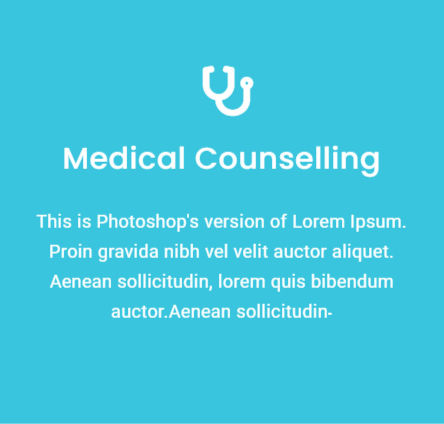
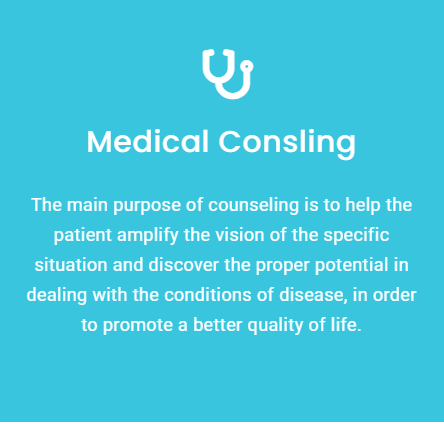
git add --all

diff --git a/templates/home.html b/templates/home.html
@@ -26,6 +26,7 @@
         <a href="#hero" class="nav-item active">Home</a>
         <a href="#why" class="nav-item">Why HelthOne</a>
         <a href="#appointment" class="nav-item">Appointment</a>
+        
         <button onclick="openLogin()">Login/Register</button>
       </div>
     </div>
@@ -37,12 +38,10 @@
           Medical <a class="item-1">Health</a>
         </section>
       </div>
-      <p>
-        Purus gravida quis blandit turpis cursus in hac habitasse platea. Et
-        sollicitudin ac orci phasellus egestas. Vulputate eu scelerisque felis
-        imperdiet proin fermentum leo vel. Vitae elementum.
+      <p class="pa">
+        Healthcare is amongst the one of the basic necessity’s required by an individual to stay fit in this world. It’s vital to ensure a healthy body as it leads to a healthy environment which will eventually lead to a healthy nation. 
       </p>
-      <a href="#"><button class="btn">Learn More</button></a>
+      <a href="#"><button class="butn">Learn More</button></a>
     </section>
 
     <div id="snackbar">{{ msg1 }}</div>
@@ -64,7 +63,7 @@
     >
       <tr>
         <td class="fliptd">
-          <div class="flip-card">
+          <div class="flip-card ca">
             <div class="flip-card-inner">
               <div class="flip-card-front">
                 <img
@@ -84,7 +83,7 @@
           </div>
         </td>
         <td class="fliptd">
-          <div class="flip-card">
+          <div class="flip-card na">
             <div class="flip-card-inner">
               <div class="flip-card-front">
                 <img
@@ -104,7 +103,7 @@
         </td>
 
         <td class="fliptd">
-          <div class="flip-card">
+          <div class="flip-card ba">
             <div class="flip-card-inner">
               <div class="flip-card-front">
                 <img
@@ -133,24 +132,19 @@
         We Value Your<br /><a class="family-style">Family</a> More<br />Than
         Anyone<br />Else.
       </div>
-      <p>
-        Curabitur mollis bibendum luctus. Duis suscipit vitae dui sed suscipit.
-        Vestibulum auctor nunc vitae diam eleifend, in maximus metus
-        sollicitudin. Quisque vitae sodales lectus. Nam porttitor justo sed mi
-        finibus, vel tristique risus faucibus.
+      <p class="ba">
+        We here at HelthOne value your and your families Health, as everyone should. If you choose to be with us, you will get free consultations with the top doctors in the world, along with the best lab tests in the country.
       </p>
-      <p style="margin-bottom: 0 !important">
-        Curabitur mollis bibendum luctus. Duis suscipit vitae dui sed suscipit.
-        Vestibulum auctor nunc vitae diam eleifend, in maximus metus
-        sollicitudin. Quisque vitae sodales lectus..
+      <p style="margin-bottom: 0 !important" class="ba">
+        Being healthy is about having good physical health and being mentally and socially fit. A healthy person can be more focused, more determined and can lead a happy life. If we look into human history, the biggest asset to human beings is good health and a healthy mind.
       </p>
     </section>
 
     <div class="form-bg" id="appointment">
       <div class="form-title">
-         <div class="make-an-style"> Make An </div> <section>Appointment</section>
+         <div class="make-an-style"> Make An </div> <section class="app">Appointment</section>
       </div>
-      <p>This is Photoshop's version of Lorem Ipsum. Proin gravida nibh vel velit auctor aliquet. Aenean sollicitudin, lorem quis bibendum auctor.</p>
+      <p class="ba">Fill this for here to connect with the best doctors in the country.</p>
       <div class="make-an-form">
         <form method="POST" action="{{ url_for('home') }}">
           <table style="border-spacing: 6px;">
@@ -168,7 +162,7 @@
         </div>
     </div>
     <!-- ----CLINICAL DEPARTMENTS---- -->
-    <section class="clinical-depart">
+    <section class="clinical-depart na">
       <div class="line-1">We provide best Lab Test across India</div>
       <div class="main-line">clinical <a>department</a></div>
 

diff --git a/templates/home_doctor.html b/templates/home_doctor.html
@@ -20,12 +20,13 @@
   <body>
     <div class="navbar" id="mynavbar">
       <div class="navgrp left" style="width: 15vw">
-        <a href="#home">HelthOne</a>
+        <a href="#hero">HelthOne</a>
       </div>
       <div class="navgrp right" style="width: 62vw">
         <a href="#hero" class="nav-item active">Home</a>
         <a href="#why" class="nav-item">Why HelthOne</a>
         <a href="#appointments" class="nav-item">Appointment</a>
+        <a href="#clinic" class="nav-item">Clinical Department</a>
         <a href="{{ url_for('logout') }}">
           <i class="fa fa-sign-in" aria-hidden="true" style="font-size: 18px; padding-top: 2px; padding-left: -4px"></i>
         </a>
@@ -39,12 +40,10 @@
           Medical <a class="item-1">Health</a>
         </section>
       </div>
-      <p>
-        Purus gravida quis blandit turpis cursus in hac habitasse platea. Et
-        sollicitudin ac orci phasellus egestas. Vulputate eu scelerisque felis
-        imperdiet proin fermentum leo vel. Vitae elementum.
+      <p class="pa">
+        Healthcare is amongst the one of the basic necessity’s required by an individual to stay fit in this world. It’s vital to ensure a healthy body as it leads to a healthy environment which will eventually lead to a healthy nation. 
       </p>
-      <a href="#"><button class="btn">Learn More</button></a>
+      <a href="#"><button class="butn">Learn More</button></a>
     </section>
 
     <!-- -----FLIPING CARDS---- -->
@@ -58,7 +57,7 @@
     >
       <tr>
         <td class="fliptd">
-          <div class="flip-card">
+          <div class="flip-card ca">
             <div class="flip-card-inner">
               <div class="flip-card-front">
                 <img
@@ -78,7 +77,7 @@
           </div>
         </td>
         <td class="fliptd">
-          <div class="flip-card">
+          <div class="flip-card na">
             <div class="flip-card-inner">
               <div class="flip-card-front">
                 <img
@@ -98,7 +97,7 @@
         </td>
 
         <td class="fliptd">
-          <div class="flip-card">
+          <div class="flip-card ba">
             <div class="flip-card-inner">
               <div class="flip-card-front">
                 <img
@@ -127,16 +126,11 @@
         We Value Your<br /><a class="family-style">Family</a> More<br />Than
         Anyone<br />Else.
       </div>
-      <p>
-        Curabitur mollis bibendum luctus. Duis suscipit vitae dui sed suscipit.
-        Vestibulum auctor nunc vitae diam eleifend, in maximus metus
-        sollicitudin. Quisque vitae sodales lectus. Nam porttitor justo sed mi
-        finibus, vel tristique risus faucibus.
+      <p class="ba">
+        We here at HelthOne value your and your families Health, as everyone should. If you choose to be with us, you will get free consultations with the top doctors in the world, along with the best lab tests in the country.
       </p>
-      <p style="margin-bottom: 0 !important">
-        Curabitur mollis bibendum luctus. Duis suscipit vitae dui sed suscipit.
-        Vestibulum auctor nunc vitae diam eleifend, in maximus metus
-        sollicitudin. Quisque vitae sodales lectus..
+      <p style="margin-bottom: 0 !important" class="ba">
+        Being healthy is about having good physical health and being mentally and socially fit. A healthy person can be more focused, more determined and can lead a happy life. If we look into human history, the biggest asset to human beings is good health and a healthy mind.
       </p>
     </section>
 
@@ -159,12 +153,13 @@
           {%endfor%}
         </table>
       </div>
+      <div id="clinic"></div>
     </section>
   
 
 
     <!-- ----CLINICAL DEPARTMENTS---- -->
-    <section class="clinical-depart">
+    <section class="clinical-depart na" >
       <div class="line-1">We provide best Lab Test across India</div>
       <div class="main-line">clinical <a>department</a></div>
 

diff --git a/templates/home_patient.html b/templates/home_patient.html
@@ -40,12 +40,10 @@
           Medical <a class="item-1">Health</a>
         </section>
       </div>
-      <p>
-        Purus gravida quis blandit turpis cursus in hac habitasse platea. Et
-        sollicitudin ac orci phasellus egestas. Vulputate eu scelerisque felis
-        imperdiet proin fermentum leo vel. Vitae elementum.
+      <p class="pa">
+        Healthcare is amongst the one of the basic necessity’s required by an individual to stay fit in this world. It’s vital to ensure a healthy body as it leads to a healthy environment which will eventually lead to a healthy nation. 
       </p>
-      <a href="#"><button class="btn">Learn More</button></a>
+      <a href="#"><button class="butn">Learn More</button></a>
     </section>
 
     <!-- -----FLIPING CARDS---- -->
@@ -59,7 +57,7 @@
     >
       <tr>
         <td class="fliptd">
-          <div class="flip-card">
+          <div class="flip-card ca">
             <div class="flip-card-inner">
               <div class="flip-card-front">
                 <img
@@ -79,7 +77,7 @@
           </div>
         </td>
         <td class="fliptd">
-          <div class="flip-card">
+          <div class="flip-card na">
             <div class="flip-card-inner">
               <div class="flip-card-front">
                 <img
@@ -99,7 +97,7 @@
         </td>
 
         <td class="fliptd">
-          <div class="flip-card">
+          <div class="flip-card ba">
             <div class="flip-card-inner">
               <div class="flip-card-front">
                 <img
@@ -128,16 +126,11 @@
         We Value Your<br /><a class="family-style">Family</a> More<br />Than
         Anyone<br />Else.
       </div>
-      <p>
-        Curabitur mollis bibendum luctus. Duis suscipit vitae dui sed suscipit.
-        Vestibulum auctor nunc vitae diam eleifend, in maximus metus
-        sollicitudin. Quisque vitae sodales lectus. Nam porttitor justo sed mi
-        finibus, vel tristique risus faucibus.
+      <p class="ba">
+        We here at HelthOne value your and your families Health, as everyone should. If you choose to be with us, you will get free consultations with the top doctors in the world, along with the best lab tests in the country.
       </p>
-      <p style="margin-bottom: 0 !important">
-        Curabitur mollis bibendum luctus. Duis suscipit vitae dui sed suscipit.
-        Vestibulum auctor nunc vitae diam eleifend, in maximus metus
-        sollicitudin. Quisque vitae sodales lectus..
+      <p style="margin-bottom: 0 !important" class="ba">
+        Being healthy is about having good physical health and being mentally and socially fit. A healthy person can be more focused, more determined and can lead a happy life. If we look into human history, the biggest asset to human beings is good health and a healthy mind.
       </p>
     </section>
 
@@ -145,7 +138,7 @@
       <div class="form-title">
          <div class="make-an-style"> Make An </div> <section>Appointment</section>
       </div>
-      <p>This is Photoshop's version of Lorem Ipsum. Proin gravida nibh vel velit auctor aliquet. Aenean sollicitudin, lorem quis bibendum auctor.</p>
+      <p>Fill this for here to connect with the best doctors in the country.</p>
       <div class="make-an-form">
           <table style="border-spacing: 6px;">
           <form method="POST" enctype="multipart/form-data" action="{{ url_for('home') }}">
@@ -166,7 +159,7 @@
     </div>
 
     <!-- ----CLINICAL DEPARTMENTS---- -->
-    <section class="clinical-depart">
+    <section class="clinical-depart na">
       <div class="line-1">We provide best Lab Test across India</div>
       <div class="main-line">clinical <a>department</a></div>
       <img

diff --git a/static/js/home.js b/static/js/home.js
@@ -44,7 +44,7 @@ ScrollReveal().reveal('.hero-line-2, .pa',{delay:500, origin:'left'});
 ScrollReveal().reveal('.section-2-line-1,.family-value' , {delay:100, origin:'left'});
 ScrollReveal().reveal('.butn', {delay:500, origin:'bottom'});
 ScrollReveal().reveal('.ba', {delay:200, origin:'right'});
-ScrollReveal().reveal('.make-an-style', {delay:100, origin:'right'});
+ScrollReveal().reveal('.make-an-style,.app', {delay:100, origin:'right'});
 ScrollReveal().reveal('.line-1', {delay:200, origin:'top'});
 ScrollReveal().reveal('.main-line', {delay:200, origin:'bottom'});
 ScrollReveal().reveal('.na', {delay:200, origin:'bottom'});

diff --git a/static/css/style.css b/static/css/style.css
@@ -81,6 +81,31 @@ html{
   animation: fadeIn 1s;
 }
 
+.butn {
+  background: #39C5DE;
+  border-radius: 50px;
+  line-height: 25px;
+  font-weight: 400;
+  border: 2px solid transparent;
+  font-family: 'Roboto', sans-serif;
+  color: #ffffff;
+  border-color: #39C5DE;
+  font-size: 15px;
+  padding: 9px 34px;
+  text-decoration: none;
+  box-shadow: none;
+  position: absolute;
+  margin-left: 12.5vw;
+  margin-top: 64vh;
+  cursor: pointer;
+}
+.butn:hover{
+  background:#0284D0 ;
+  cursor: pointer;
+  transition: ease 0.5s;
+  border-color: #0284D0;
+}
+
 
 /* -----HERO ELEMENT----- */
 

diff --git a/main.py b/main.py
@@ -263,4 +263,4 @@ def order():
 
 
 if __name__ == '__main__':
-   app.run(debug=True)
+   app.run(host='0.0.0.0')

diff --git a/README.md b/README.md
@@ -1,4 +1,12 @@
 # X-Code-BHS
-Install pips.
+
+# Install pips
+Run the following commands in cmd to install the correspontding modules:
+pip install flask
+pip install mysql-connector
+
+# Setup
 Use setup.py for setting up demo database.
+
+# Run
 Run main.py for starting the server.
